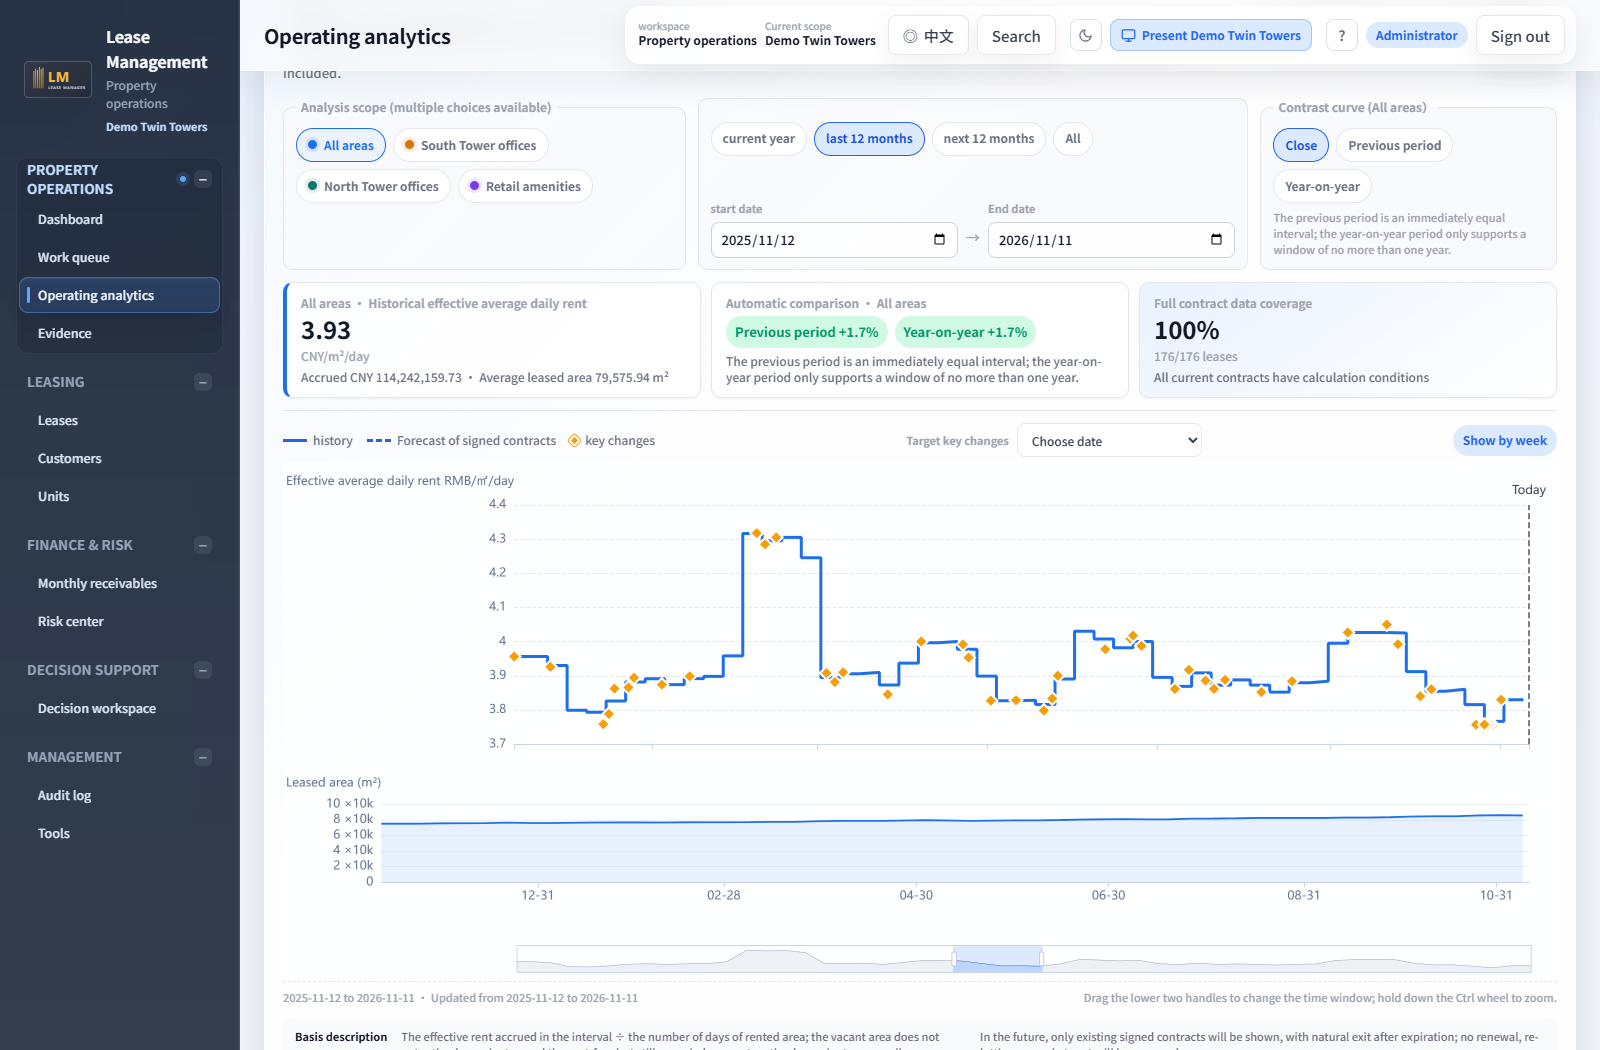
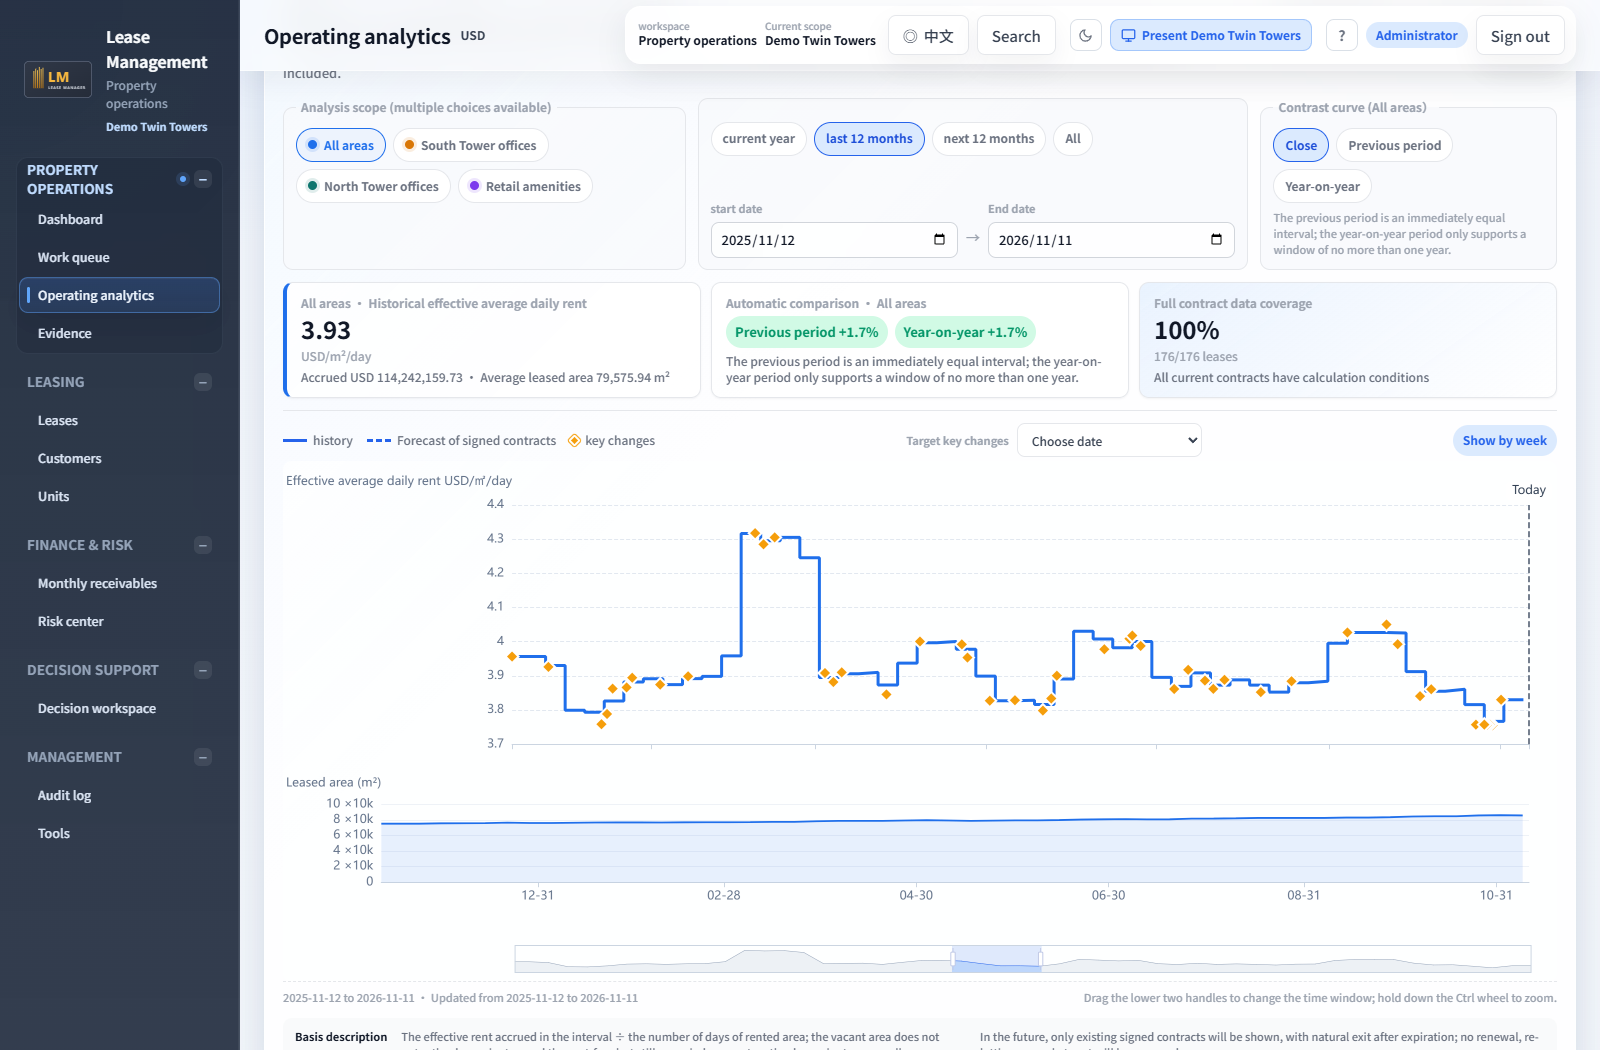
Add configurable currency units without amount conversion

diff --git a/frontend/src/views/ToolsCenterView.vue b/frontend/src/views/ToolsCenterView.vue
@@ -1,5 +1,7 @@
 <script setup>
 import { computed, onMounted, reactive, ref, watch } from 'vue'
+import { currencyUnit, setCurrencyUnit, locale } from '../i18n/index.js'
+import { currencies } from '../i18n/currency.js'
 import BaseModal from '../components/BaseModal.vue'
 import InfoHint from '../components/InfoHint.vue'
 import { api, openDownload } from '../lib/api'
@@ -23,6 +25,21 @@ const isAdmin = computed(() => (
 const canUseTools = computed(() => isAdmin.value)
 const canViewAudit = computed(() => isAdmin.value)
 const showTools = computed(() => canUseTools.value)
+
+const selectedCurrency = ref(currencyUnit.value)
+const currencySaving = ref(false)
+async function saveCurrencyUnit() {
+  currencySaving.value = true
+  try {
+    const result = await api('/api/settings/currency', { method: 'PUT', body: JSON.stringify({ code: selectedCurrency.value }) })
+    setCurrencyUnit(result.code)
+    emit('notify', { text: '货币单位已保存，金额数字未改变。' })
+  } catch (error) {
+    emit('notify', { type: 'error', text: error.message })
+  } finally {
+    currencySaving.value = false
+  }
+}
 
 const backups = ref([])
 const backupRestoreConfirm = reactive({ item: null, restoring: false })
@@ -320,6 +337,26 @@ onMounted(async () => {
   <section class="content">
     <section v-if="showTools" class="tool-console" :class="{ admin: isAdmin, editor: !isAdmin }" data-testid="tools-page">
       <div class="tool-task-grid" data-testid="tools-task-grid">
+        <section v-if="isAdmin" class="tool-task-group" data-testid="tool-section-currency">
+          <div class="tool-task-group-head"><h3>{{ $t("货币单位") }}</h3></div>
+          <article class="tool-task-row tool-card">
+            <div class="tool-task-main">
+              <p>{{ $t("界面、业务报表和常用 Excel 导出使用同一货币单位。") }}</p>
+              <p class="helper-text">{{ $t("仅更换金额的货币单位，已有数字不变，不进行汇率换算。") }}</p>
+            </div>
+            <div class="tool-task-detail">
+              <label class="form-field">
+                <span>{{ $t("货币单位") }}</span>
+                <select v-model="selectedCurrency" class="select" data-testid="currency-unit-select">
+                  <option v-for="item in currencies" :key="item.code" :value="item.code">{{ item.code }} — {{ locale === 'en' ? item.en : item.zh }}</option>
+                </select>
+              </label>
+            </div>
+            <div class="tool-task-actions">
+              <button class="btn btn-primary" data-testid="currency-unit-save" :disabled="currencySaving || selectedCurrency === currencyUnit" @click="saveCurrencyUnit">{{ $t(currencySaving ? '保存中' : '保存') }}</button>
+            </div>
+          </article>
+        </section>
         <section class="tool-task-group tool-task-group-materials" data-testid="tool-section-materials">
           <div class="tool-task-group-head">
             <h3>{{ $t("提醒与备份") }}</h3>

diff --git a/frontend/src/i18n/charts.js b/frontend/src/i18n/charts.js
@@ -1,16 +1,16 @@
 import { translate } from './translate.js'
 
-function richLabel(value, language) {
+function richLabel(value, language, currency) {
   if (typeof value !== 'string') return value
   // Formatter HTML stays intact; interpolate/escape business values in the caller.
-  return value.split(/(<[^>]*>)/g).map((part) => part.startsWith('<') ? part : translate(part, language)).join('')
+  return value.split(/(<[^>]*>)/g).map((part) => part.startsWith('<') ? part : translate(part, language, currency)).join('')
 }
 
-export function localizeChartOption(option, language) {
-  if (language !== 'en') return option
+export function localizeChartOption(option, language, currency = 'CNY') {
+  if (language !== 'en' && currency === 'CNY') return option
   function visit(value, key = '', inData = false) {
     if (typeof value === 'function') {
-      return key === 'formatter' ? function (...args) { return richLabel(value.apply(this, args), language) } : value
+      return ['formatter', 'valueFormatter'].includes(key) ? function (...args) { return richLabel(value.apply(this, args), language, currency) } : value
     }
     if (Array.isArray(value)) return value.map((item) => visit(item, key, inData || key === 'data'))
     if (value && typeof value === 'object') {
@@ -22,23 +22,23 @@ export function localizeChartOption(option, language) {
           result[child] = visit(descriptor.value, child, inData)
         }
       }
-      if (key === 'axisLabel' && !result.formatter) result.formatter = (label) => translate(label, language)
+      if (key === 'axisLabel' && !result.formatter) result.formatter = (label) => translate(label, language, currency)
       return result
     }
-    if (typeof value === 'string' && !inData && ['name', 'text', 'subtext', 'formatter'].includes(key)) return translate(value, language)
+    if (typeof value === 'string' && !inData && ['name', 'text', 'subtext', 'formatter'].includes(key)) return translate(value, language, currency)
     return value
   }
   const localized = visit(option)
   for (const axisName of ['xAxis', 'yAxis']) {
     for (const axis of [].concat(localized[axisName] || [])) {
       axis.axisLabel ||= {}
-      axis.axisLabel.formatter ||= (label) => translate(label, language)
+      axis.axisLabel.formatter ||= (label) => translate(label, language, currency)
     }
   }
   // Legend lookup must use the same names as the localized series.
   for (const legend of [].concat(localized.legend || [])) {
-    if (legend.data) legend.data = legend.data.map((item) => typeof item === 'string' ? translate(item, language) : { ...item, name: translate(item.name, language) })
-    legend.formatter ||= (label) => translate(label, language)
+    if (legend.data) legend.data = legend.data.map((item) => typeof item === 'string' ? translate(item, language, currency) : { ...item, name: translate(item.name, language, currency) })
+    legend.formatter ||= (label) => translate(label, language, currency)
   }
   return localized
 }

diff --git a/frontend/src/components/PresentationView.vue b/frontend/src/components/PresentationView.vue
@@ -1,5 +1,5 @@
 <script setup>
-import { locale } from '../i18n/index.js'
+import { locale, currencyUnit } from '../i18n/index.js'
 import { localizeChartOption } from '../i18n/charts.js'
 import { computed, nextTick, onBeforeUnmount, onMounted, ref, watch } from 'vue'
 import { loadChartRuntime } from '../lib/chartRuntime'
@@ -437,7 +437,7 @@ async function renderTrendChart() {
   if (!trendChartEl.value) return
   if (!echartsRuntime) echartsRuntime = await loadChartRuntime()
   if (!trendChart) trendChart = echartsRuntime.init(trendChartEl.value)
-  trendChart.setOption(localizeChartOption(trendOption(trendRows.value), locale.value))
+  trendChart.setOption(localizeChartOption(trendOption(trendRows.value), locale.value, currencyUnit.value))
 }
 
 // 面积构成环图（左列）：已租 vs 待租，字段取自 vacancy.total_area / vacancy.area
@@ -480,7 +480,7 @@ async function renderAreaChart() {
           ]
         : []
     }]
-  }, locale.value))
+  }, locale.value, currencyUnit.value))
 }
 
 // 分区平均单价走势（中列下半，近 6 个月三分区折线）
@@ -532,7 +532,7 @@ async function renderPriceChart() {
       lineStyle: { width: 2.5, color: segment.color },
       itemStyle: { color: segment.color }
     }))
-  }, locale.value))
+  }, locale.value, currencyUnit.value))
 }
 
 function onResize() {
@@ -556,7 +556,7 @@ function disposeCharts() {
   }
 }
 
-watch(locale, () => { renderTrendChart(); renderAreaChart(); renderPriceChart() })
+watch([locale, currencyUnit], () => { renderTrendChart(); renderAreaChart(); renderPriceChart() })
 watch(trendRows, () => { renderTrendChart() })
 watch(areaBreakdown, () => { renderAreaChart() })
 watch(priceTrend, () => { renderPriceChart() })
@@ -617,6 +617,7 @@ onBeforeUnmount(() => {
     data-scope-type="building"
   >
     <header class="cockpit-header">
+      <span class="badge">{{ currencyUnit }}</span>
       <div class="cockpit-brand">
         <button
           v-if="overviewOnly"

diff --git a/frontend/src/components/UnifiedCockpit.vue b/frontend/src/components/UnifiedCockpit.vue
@@ -1,4 +1,5 @@
 <script setup>
+import { currencyUnit } from '../i18n/index.js'
 import { computed, defineAsyncComponent, onBeforeUnmount, onMounted, ref, watch } from 'vue'
 import EChartPanel from './EChartPanel.vue'
 import BaseModal from './BaseModal.vue'
@@ -362,6 +363,7 @@ onBeforeUnmount(() => {
       <div class="uc-actions"><button type="button" class="btn" data-tour-control data-testid="cockpit-tour" :aria-pressed="touring" :disabled="!tourStops.length" @click="toggleTour">{{ $t(touring ? '暂停巡览' : '自动巡览') }}</button><button type="button" class="btn" data-testid="cockpit-exit" @click="requestExit">{{ $t("退出大屏") }}</button></div>
     </header>
     <div class="uc-context">
+      <span class="badge">{{ currencyUnit }}</span>
       <div><strong>{{ $t(scopeTitle) }}</strong><span>{{ $t("统计日 ") }}{{ $t(asOfDate) }}</span><span v-if="sourceTime">{{ $t("来源更新 ") }}{{ $t(sourceTime) }}</span><span v-if="touring" class="uc-tour-status" data-testid="cockpit-tour-status" aria-live="off">{{ $t("巡览中 · ") }}{{ $t(tourCountdown) }}{{ $t(" 秒后切换") }}</span></div>
       <div class="uc-scope-controls"><label for="uc-building">{{ $t("楼宇") }}</label><select id="uc-building" :value="selectedCode" data-testid="cockpit-building-select" @change="chooseBuilding($event.target.value); $event.target.value = selectedCode"><option v-if="isPortfolio" value="">{{ $t("全部楼宇") }}</option><option v-for="building in buildings" :key="building.code" :value="building.code" :disabled="!building.selectable">{{ building.name }}</option></select><button v-if="selectedCode && isPortfolio" class="btn" type="button" data-testid="cockpit-back-overview" @click="backToOverview">{{ $t("返回总览") }}</button></div>
     </div>

diff --git a/frontend/src/i18n/translate.js b/frontend/src/i18n/translate.js
@@ -1,3 +1,4 @@
+import { currencyLabel } from './currency.js'
 import messages from '../../../app/i18n/en.json' with { type: 'json' }
 import patternKeys from '../../../app/i18n/patterns.json' with { type: 'json' }
 
@@ -16,8 +17,8 @@ const cache = new Map()
 
 // Only call at presentation boundaries. Never translate requests, persisted values,
 // identifiers, user-entered names, or text inside a form's model.
-export function translate(value, language = 'en') {
-  if (language !== 'en' || typeof value !== 'string' || !han.test(value)) return value
+export function translate(value, language = 'en', currency = 'CNY') {
+  if (language !== 'en' || typeof value !== 'string' || !han.test(value)) return currencyLabel(value, currency)
   const key = normalize(value)
   let translated = cache.get(key)
   if (translated === undefined) {
@@ -46,7 +47,7 @@ export function translate(value, language = 'en') {
     if (cache.size > 3000) cache.clear()
     cache.set(key, translated)
   }
-  return (value.match(/^\s*/)?.[0] || '') + translated + (value.match(/\s*$/)?.[0] || '')
+  return currencyLabel((value.match(/^\s*/)?.[0] || '') + translated + (value.match(/\s*$/)?.[0] || ''), currency)
 }
 
 export function readLocale(storage) {

diff --git a/frontend/src/components/EChartPanel.vue b/frontend/src/components/EChartPanel.vue
@@ -1,5 +1,5 @@
 <script setup>
-import { locale } from '../i18n/index.js'
+import { locale, currencyUnit } from '../i18n/index.js'
 import { localizeChartOption, restoreChartEvent } from '../i18n/charts.js'
 import { beginReadyTask } from '../lib/operationTelemetry'
 import { nextTick, onActivated, onBeforeUnmount, onDeactivated, onMounted, ref, watch } from 'vue'
@@ -213,7 +213,7 @@ function updateChart(echarts, target) {
   }
   if (optionDirty) {
     optionDirty = false
-    const localized = localizeChartOption(props.option, locale.value)
+    const localized = localizeChartOption(props.option, locale.value, currencyUnit.value)
     const option = theme === 'dark' ? remapChartOptionForDark(localized) : localized
     chart.setOption(option, true)
   }
@@ -314,7 +314,7 @@ onDeactivated(() => {
 })
 
 watch(
-  () => [props.option, props.empty, locale.value],
+  () => [props.option, props.empty, locale.value, currencyUnit.value],
   () => {
     if (props.empty) {
       cancelPendingUpdate()

diff --git a/frontend/src/lib/api.js b/frontend/src/lib/api.js
@@ -1,4 +1,4 @@
-import { locale } from '../i18n/index.js'
+import { locale, setCurrencyUnit } from '../i18n/index.js'
 import { beginReadyTask, operationNow, recordApiTiming } from './operationTelemetry.js'
 import { buildScopedApiUrl, buildScopedDownloadUrl } from './propertyScope.js'
 
@@ -137,6 +137,7 @@ export async function api(path, options = {}) {
     const response = includeScope
       ? await fetch(buildScopedApiUrl(path), config)
       : await fetch(buildScopedApiUrl(path, { includeScope: false }), config)
+    setCurrencyUnit(response.headers.get('x-openlease-currency'))
     headerTime = operationNow()
     responseStatus = response.status
     const metric = (response.headers.get('server-timing') || '').match(/(?:^|,)\s*app\s*;\s*dur=([\d.]+)/)

diff --git a/frontend/src/i18n/currency.js b/frontend/src/i18n/currency.js
@@ -1,0 +1,14 @@
+import currencies from '../../../app/i18n/currencies.json' with { type: 'json' }
+
+export { currencies }
+const codes = new Set(currencies.map(item => item.code))
+export const validCurrency = code => codes.has(code)
+
+// Only presentation labels enter here. Amounts, form values and business text stay intact.
+export function currencyLabel(value, code = 'CNY') {
+  if (typeof value !== 'string' || code === 'CNY' || !validCurrency(code)) return value
+  return value.replace(/\b(?:CNY|RMB|yuan|renminbi)\b/gi, code)
+    .replace(/[¥￥]/g, `${code} `)
+    .replaceAll('人民币', code).replaceAll('万元', `万 ${code}`).replaceAll('亿元', `亿 ${code}`)
+    .replace(/(?<![\u3400-\u9fff])元(?![\u3400-\u9fff])/g, code)
+}

diff --git a/frontend/src/i18n/index.js b/frontend/src/i18n/index.js
@@ -1,11 +1,14 @@
 import { ref } from 'vue'
+import { validCurrency } from './currency.js'
 import { translate, readLocale, persistLocale } from './translate.js'
 
 function storage() {
   try { return globalThis.localStorage } catch { return undefined }
 }
 export const locale = ref(readLocale(storage()))
-export const t = (value) => translate(value, locale.value)
+export const currencyUnit = ref('CNY')
+export function setCurrencyUnit(code) { if (validCurrency(code)) currencyUnit.value = code }
+export const t = (value) => translate(value, locale.value, currencyUnit.value)
 
 function updateDocument() {
   if (typeof document === 'undefined') return

diff --git a/frontend/src/components/TopBar.vue b/frontend/src/components/TopBar.vue
@@ -1,6 +1,7 @@
 <script setup>
 import LanguageSwitch from '../components/LanguageSwitch.vue'
 import { computed } from 'vue'
+import { currencyUnit } from '../i18n/index.js'
 import { formatRole } from '../lib/format'
 
 const props = defineProps({
@@ -78,6 +79,7 @@ const currentScopeLabel = computed(() => {
       </button>
       <div class="topbar-title">
         <h2>{{ $t(title) }}</h2>
+        <span class="badge" data-testid="current-currency-unit" :title="$t('货币单位')">{{ currencyUnit }}</span>
       </div>
     </div>
 

diff --git a/frontend/src/components/presentation/PortfolioPresentationView.vue b/frontend/src/components/presentation/PortfolioPresentationView.vue
@@ -1,4 +1,5 @@
 <script setup>
+import { currencyUnit } from '../../i18n/index.js'
 import { computed, onBeforeUnmount, onMounted, ref } from 'vue'
 import {
   buildLeadershipOverviewBuildingCards,
@@ -141,6 +142,7 @@ onBeforeUnmount(() => {
         </div>
       </div>
       <div class="portfolio-header-status">
+        <span class="badge">{{ currencyUnit }}</span>
         <span
           v-if="health.simulated"
           class="portfolio-simulation-badge"

diff --git a/tests/test_currency_unit.py b/tests/test_currency_unit.py
@@ -1,0 +1,95 @@
+from datetime import date
+import io
+
+import openpyxl
+from openpyxl.styles import Font
+from fastapi.testclient import TestClient
+
+from app.main import app
+from app.database import SessionLocal
+from app.models import Contract, SystemConfig
+from app.core.currency_unit import request_currency, currency_label
+from app.core.localization import request_locale, display, bilingual_aliases, header_key
+from app.core.workbook_localization import localize_workbook
+from app.services.documents import _render_html
+from test_financial_planning_api import admin, year, _seed_contract
+
+
+def test_unit_setting_changes_labels_not_persisted_amounts(admin, year):
+    cid = _seed_contract(year)
+    with SessionLocal() as db:
+        before = db.get(Contract, cid).monthly_rent
+    assert admin.get('/api/settings/currency').json()['code'] == 'CNY'
+    for code in ['USD', 'EUR', 'CNY']:
+        result = admin.put('/api/settings/currency', json={'code': code})
+        assert result.status_code == 200
+        assert result.json()['code'] == code
+        with SessionLocal() as db:
+            assert db.get(Contract, cid).monthly_rent == before
+        assert admin.get('/api/auth/status').headers['X-OpenLease-Currency'] == code
+    assert admin.put('/api/settings/currency', json={'code': 'BAD'}).status_code == 422
+    assert admin.get('/api/settings/currency').json()['code'] == 'CNY'
+
+
+def test_unit_setting_requires_administrator(admin):
+    secret = 'CurrencyViewer123'
+    created = admin.post('/api/auth/create-user', json={'username': 'currency-viewer', 'password': secret, 'display_name': 'Viewer', 'role': 'viewer'})
+    assert created.status_code == 200
+    with TestClient(app) as viewer:
+        assert viewer.post('/api/auth/login', json={'username': 'currency-viewer', 'password': secret}).status_code == 200
+        assert viewer.put('/api/settings/currency', json={'code': 'USD'}).status_code == 403
+        assert viewer.get('/api/auth/status').headers['X-OpenLease-Currency'] == 'CNY'
+    with TestClient(app) as anonymous:
+        assert anonymous.put('/api/settings/currency', json={'code': 'USD'}).status_code == 401
+
+
+def test_workbook_unit_is_explicit_and_business_values_are_untouched():
+    for language in ['en', 'zh-CN']:
+        wb = openpyxl.Workbook()
+        ws = wb.active
+        ws.append(['客户名称', '金额（元）', '备注'])
+        for cell in ws[1]:
+            cell.font = Font(bold=True)
+        ws.append(['CNY Research', 1000.25, '人民币备注'])
+        currency = request_currency.set('USD')
+        locale = request_locale.set(language)
+        try:
+            localize_workbook(wb)
+        finally:
+            request_currency.reset(currency)
+            request_locale.reset(locale)
+        assert 'USD' in ws['B1'].value
+        assert [cell.value for cell in ws[2]] == ['CNY Research', 1000.25, '人民币备注']
+        assert wb.worksheets[-1]['B1'].value == 'USD'
+        aliases = bilingual_aliases({'金额（元）': 'amount'})
+        assert aliases[header_key(ws['B1'].value)] == 'amount'
+        buffer = io.BytesIO()
+        wb.save(buffer)
+        assert openpyxl.load_workbook(io.BytesIO(buffer.getvalue())).active['B2'].value == 1000.25
+
+
+def test_currency_labels_preserve_scale_and_do_not_replace_unrelated_words():
+    assert currency_label('1,000.25 元', 'USD') == '1,000.25 USD'
+    assert currency_label('¥1,000.25', 'USD') == 'USD 1,000.25'
+    assert currency_label('万元', 'USD') == '万 USD'
+    assert currency_label('CNY 10k', 'USD') == 'USD 10k'
+    assert currency_label('单元 / 多元 / 美元 / 元素', 'USD') == '单元 / 多元 / 美元 / 元素'
+    token = request_currency.set('USD')
+    try:
+        html = _render_html(document_type='receipt', title='收据', issuer='CNY Research', notice_date=date(2026, 11, 11), lead='收款记录', rows=[('金额（元）', '1,000.25'), ('客户名称', 'CNY Research')], payment_instruction='', notes='人民币备注')
+        from app.services.reports import _money
+        assert _money(1000.25) == 'USD 1,000.25'
+        assert '金额（USD）' in html
+        assert '1,000.25' in html and 'CNY Research' in html and '人民币备注' in html
+    finally:
+        request_currency.reset(token)
+
+
+def test_actual_english_templates_use_saved_unit_without_conversion(admin):
+    assert admin.put('/api/settings/currency', json={'code': 'USD'}).status_code == 200
+    for endpoint in ['/api/rooms/export/template', '/api/contracts/export/template', '/api/customers/import/template', '/api/customers/follow-ups/import/template', '/api/contracts/deposits/import/template']:
+        response = admin.get(endpoint, params={'building': 'DEMO_A', 'lang': 'en'})
+        assert response.status_code == 200
+        wb = openpyxl.load_workbook(io.BytesIO(response.content))
+        assert wb['Currency unit']['B1'].value == 'USD'
+        assert wb.active != wb['Currency unit']
